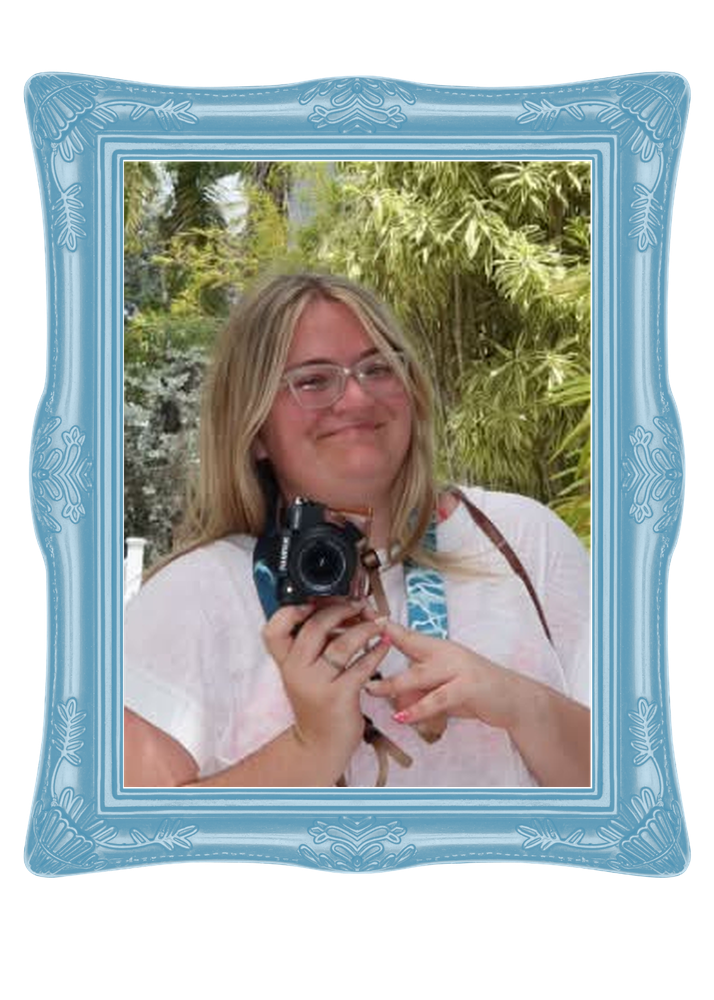
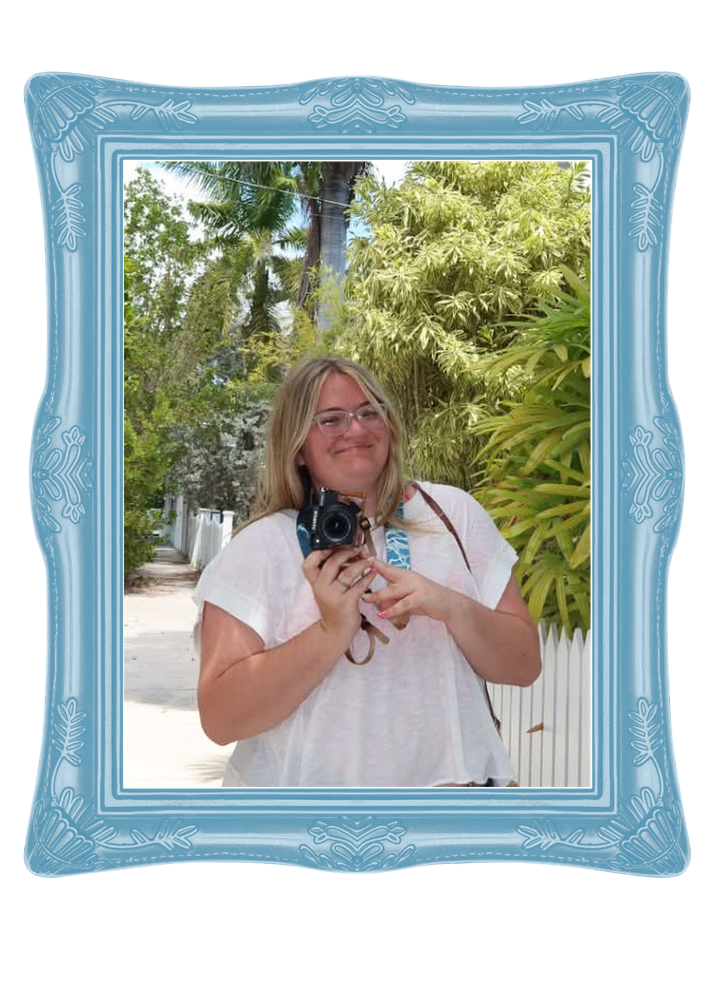
update about

diff --git a/about.html b/about.html
@@ -298,12 +298,12 @@
       .about-panel-top { margin-top: 0; }
     }
 
-    /* ── FRAMED PHOTO (Coral holding her camera, sits above the "Meet Your Photographer" panel) ──
+    /* ── MEET YOUR PHOTOGRAPHER (framed photo of Coral + her bio text, side by side) ──
        coralbeach-framed1.png is a pre-composited image (cropped from camera-to-face + frame1.png
-       overlaid, via Pillow) so this is just a single image, not a CSS layering trick. */
-    .framed-photo-section {
-      text-align: center;
-      padding: 2.5rem 1.5rem 0.5rem;
+       overlaid, via Pillow) so the photo itself is just a single <img>, not a CSS layering trick.
+       The vertical-stripe background covers this whole section so it runs continuously down to
+       where the Instagram footer starts. */
+    .meet-photographer-panel {
       background: repeating-linear-gradient(
         90deg,               /* 90deg = horizontal direction, so the hard color stops read as vertical stripes */
         #ffffff 0px,
@@ -312,10 +312,30 @@
         #FFB3AE 80px
       );
     }
-    .framed-photo-section img {
+    .meet-photographer-row {
+      display: flex;
+      align-items: center;
+      gap: 2.5rem;
+      max-width: 1100px;
+      margin: 0 auto;
+    }
+    .meet-photographer-photo {
+      flex: 0 0 auto;
       width: 100%;
       max-width: 420px;
       height: auto;
+    }
+    /* The translucent white card that keeps the text readable over the stripes (same treatment
+       the stripes/waves panels use) */
+    .meet-photographer-text {
+      flex: 1 1 auto;
+      background: rgba(255, 255, 255, 0.85);
+      padding: 2.5rem 2rem;
+      text-align: left;
+    }
+    @media (max-width: 768px) {
+      .meet-photographer-row { flex-direction: column; }
+      .meet-photographer-text { text-align: center; }
     }
 
     /* Watercolor sea life pattern background (first panel, "Behind the Lens"), replaces the old
@@ -406,26 +426,36 @@
     </div>
   </section>-->
 
-  <!-- Framed photo of Coral with her camera, above the "Meet Your Photographer" panel -->
-  <section class="framed-photo-section" aria-label="Coral holding her camera">
-    <img src="assets/coralbeach-framed1.png" alt="Coral holding her camera">
+  <!-- Meet Your Photographer: framed photo of Coral to the left of her bio text -->
+  <section class="about-panel meet-photographer-panel" aria-labelledby="about-heading-1">
+    <div class="container meet-photographer-row">
+      <img src="assets/coralbeach-framed1.png" alt="Coral holding her camera" class="meet-photographer-photo">
+      <div class="meet-photographer-text">
+        <h2 id="about-heading-1">Meet Your Photographer</h2>
+        <p>Hi, I'm Coral! I'm all about capturing those real, honest moments that make life special. Whether it's a grad celebrating a big milestone, a family hanging out together, or just a portrait that shows who you really are—I'm here to freeze those memories in time. What keeps me going? Seeing my clients light up when they see their photos. I'm excited to be turning my passion for photography into a business and sharing it with you.</p>
+        <p>Outside of photography, I love spending time at the beach and hanging out with friends and family. If you're ready to capture some great moments, I'd love to work with you.</p>
+      </div>
+    </div>
   </section>
 
-  <!-- About panel 1: Shell pattern background -->
+  <!-- About panel 1: Shell pattern background
   <section class="about-panel about-panel-top stripes" aria-labelledby="about-heading-1">
     <div class="container about-panel-inner">
       <h2 id="about-heading-1">Meet Your Photographer</h2>
       <p>Hi, I'm Coral! I'm all about capturing those real, honest moments that make life special. Whether it's a grad celebrating a big milestone, a family hanging out together, or just a portrait that shows who you really are—I'm here to freeze those memories in time. What keeps me going? Seeing my clients light up when they see their photos. I'm excited to be turning my passion for photography into a business and sharing it with you.</p>
+      <p>Outside of photography, I love spending time at the beach and hanging out with friends and family. If you're ready to capture some great moments, I'd love to work with you.</p>
     </div>
   </section>
+  -->
 
-  <!-- About panel 2: tiled wave background -->
+  <!-- About panel 2: tiled wave background
   <section class="about-panel waves" aria-labelledby="about-heading-2">
     <div class="container about-panel-inner">
       <h2 id="about-heading-2">My Hobbies</h2>
       <p>Outside of photography, I love spending time at the beach and hanging out with friends and family. If you're ready to capture some great moments, I'd love to work with you.</p>
     </div>
   </section>
+  -->
 
 </main>
 
